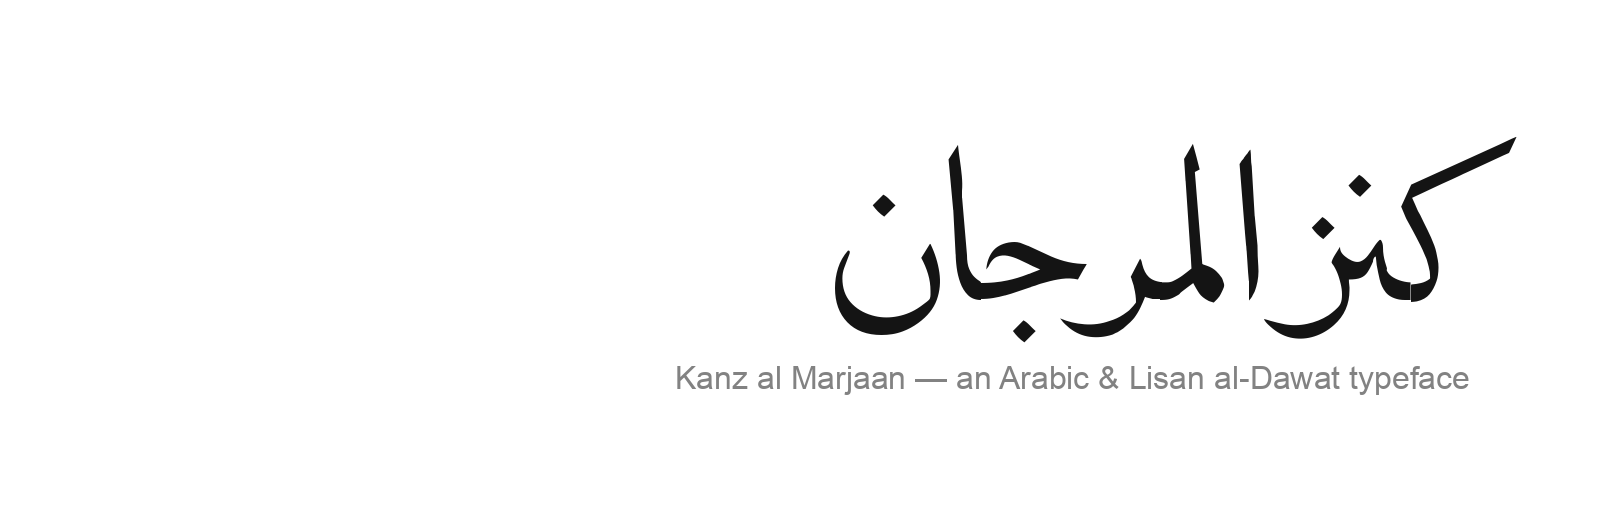
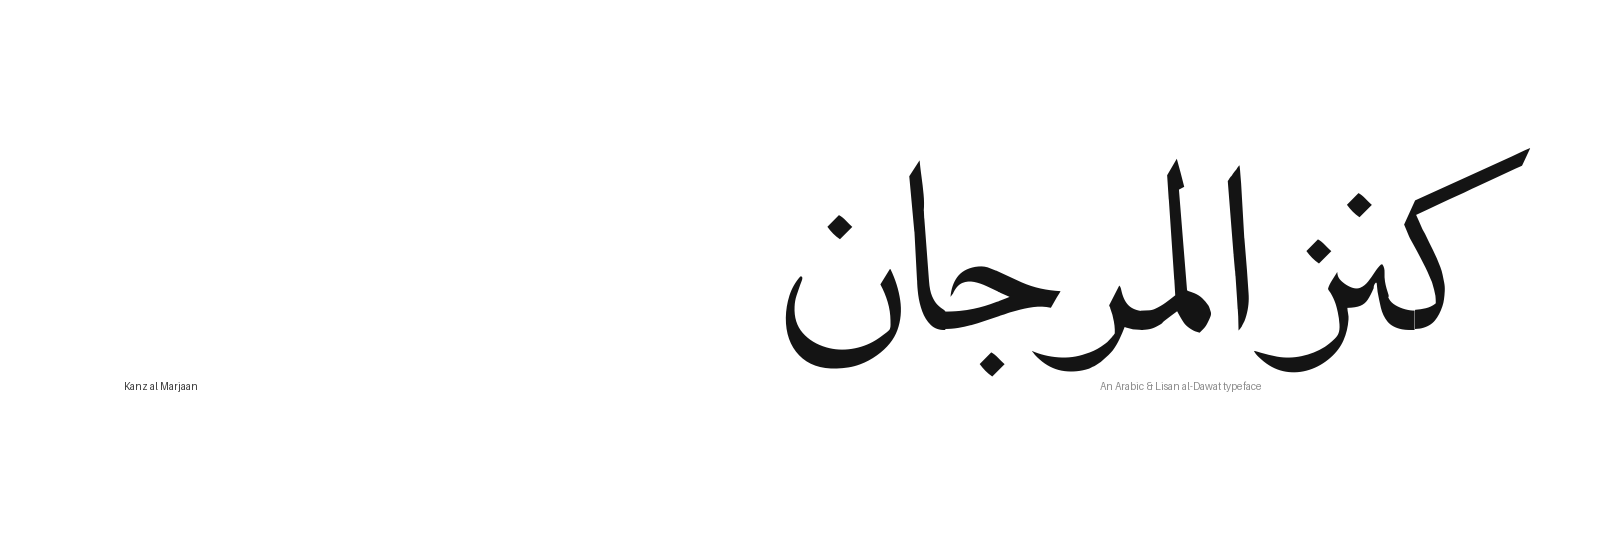
Fix vertical misalignment at glyph entry/exit points (curs anchors)
The auto-generated curs feature had anchor y values that did not sit on
the connecting stroke measured from the outlines, so HarfBuzz shifted
whole glyphs vertically at their joins:

- kaf/keheh/gaf/heh initials (uniFEDB/uniFB90/uniFB94/uniFEEB) carried
  exit anchors at y=109 vs a real stroke centre of ~86, dropping them
  ~21u below the next letter (the step visible between the initial kaf
  and the noon-zain ligature in the font name itself)
- tatweel's exit at y=150 vs 84 broke the baseline of every kashida run
- dotless-qaf finals' entry sat 11u high
- junk exit anchors on 18 non-left-joining glyphs (reh/zain/bari-yeh
  families and friends) and junk entries on hamza + punctuation fired
  spurious cursive attachments, e.g. displacing word-initial zheh by
  350u in sequences like ژو

Verified by shaping a 10k-string corpus and rasterizing every joining
seam: same-direction ink-edge steps > 8u went from 203 seam pairs to 1
(a tatweel + dotless-qaf corner case limited by stroke thickness), and
all large spurious attachments are gone, with the intentional cascade
joins (jeem/ain heads, bari-yeh, meem-alef) unchanged.

New tools: scripts/curs_audit.py (anchor-vs-outline stub audit with
guarded --apply) and scripts/join_scan.py (shaped-corpus raster seam
scanner used as the regression gate). README sample images regenerated
from the fixed build.

Claude-Session: https://claude.ai/code/session_01JieSsAqA5jTYRa2y63BRzp

Changed region(s): [[0.4688, 0.2462, 0.9688, 0.6769], [0.4062, 0.6769, 0.9375, 0.7692], [0.0625, 0.6769, 0.125, 0.7077]]

diff --git a/scripts/join_scan.py b/scripts/join_scan.py
@@ -1,0 +1,222 @@
+#!/usr/bin/env python3
+"""Scan REAL shaped text for entry/exit misalignment at cursive joins.
+
+Shapes a corpus of letter pairs and triples with HarfBuzz against the built
+TTF, rasterizes each joining seam (both glyphs, with the actual cursive-
+attachment offsets applied), and looks for a *staircase*: an abrupt jump of
+BOTH the top and the bottom ink edge in the same direction right at the seam
+column (e.g. the initial kaf sitting ~21u below the noon-zain ligature in
+كنز). Because overlapping strokes merge in the raster exactly as the reader
+sees them, intentional cascade joins (bari-yeh tails sweeping under, top
+entries into jeem/ain heads) measure clean.
+
+Also reports SPURIOUS attachments: cursive rules firing across a pair that
+does not join per the shaper (junk anchors), displacing a glyph vertically.
+
+Results are aggregated per (right-glyph, left-glyph) pair with an example
+string, worst first. Run before/after an anchor fix to prove improvement.
+
+  python scripts/join_scan.py [--ttf PATH] [--tol 8] [--out out/join/scan.txt]
+"""
+import sys, os, argparse, unicodedata
+import numpy as np
+import uharfbuzz as hb
+import freetype
+from fontTools.ttLib import TTFont
+
+TTF = "fonts/ttf/KanzAlMarjaan-Regular.ttf"
+UFO = "sources/KanzAlMarjaan-Regular.ufo"
+PPEM = 512                 # raster resolution (2 font units / px at upm 1024)
+WIN = 5                    # columns to inspect either side of the seam
+CANVAS_TOP = 1000          # font units covered above/below baseline
+CANVAS_BOT = -800
+
+# liga-forming tails: c2+c3 suffixes that produce medial/final ligature glyphs
+TAILS = ["ے", "ی", "ي", "ى", "ھے", "ہے", "ھی", "ھا", "ما", "مد", "جے", "حے", "چے",
+         "ئے", "ئی", "بے", "تے", "نے", "یے", "ھ", "ہ", "م", "ن", "ر", "ز", "د", "ج", "ح", "ع"]
+
+
+def cmap_letters(tt):
+    out = []
+    for cp in tt.getBestCmap():
+        ch = chr(cp)
+        if not (0x0600 <= cp <= 0x077F or 0x08A0 <= cp <= 0x08FF):
+            continue
+        cat = unicodedata.category(ch)
+        if cat == "Lo" or cp == 0x0640:
+            out.append(ch)
+    return sorted(out)
+
+
+def runs_of(col):
+    """Ink runs (top_px, bot_px) in a boolean column, top of image = 0."""
+    idx = np.where(col)[0]
+    if not len(idx):
+        return []
+    out = []
+    start = prev = idx[0]
+    for i in idx[1:]:
+        if i > prev + 1:
+            out.append((start, prev))
+            start = i
+        prev = i
+    out.append((start, prev))
+    return out
+
+
+def seam_staircase(img, seam_px, sc):
+    """Largest same-direction jump (font units) of both edges of a matched
+    ink run between adjacent columns around the seam. img: bool [H, W]."""
+    H, W = img.shape
+    worst = 0.0
+    for c in range(max(0, seam_px - WIN), min(W - 1, seam_px + WIN)):
+        a, b = runs_of(img[:, c]), runs_of(img[:, c + 1])
+        for ra in a:
+            for rb in b:
+                if ra[0] > rb[1] or rb[0] > ra[1]:
+                    continue                      # no vertical overlap
+                dtop = (rb[0] - ra[0]) / sc       # px -> font units
+                dbot = (rb[1] - ra[1]) / sc
+                if dtop * dbot > 0:
+                    s = min(abs(dtop), abs(dbot)) * (1 if dtop > 0 else -1)
+                    if abs(s) > abs(worst):
+                        worst = s
+    return worst
+
+
+def main():
+    ap = argparse.ArgumentParser()
+    ap.add_argument("--ttf", default=TTF)
+    ap.add_argument("--ufo", default=UFO)
+    ap.add_argument("--tol", type=float, default=8.0)
+    ap.add_argument("--out", default="out/join/scan.txt")
+    args = ap.parse_args()
+    os.makedirs(os.path.dirname(args.out), exist_ok=True)
+
+    tt = TTFont(args.ttf)
+    names = tt.getGlyphOrder()
+    with open(args.ttf, "rb") as fh:
+        hbfont = hb.Font(hb.Face(fh.read()))
+    face = freetype.Face(args.ttf)
+    upm = face.units_per_EM
+    face.set_pixel_sizes(0, PPEM)
+    sc = PPEM / upm
+
+    bcache = {}
+
+    def bitmap(gid):
+        """(bool array, bitmap_left, bitmap_top) at PPEM, unhinted."""
+        if gid not in bcache:
+            face.load_glyph(gid, freetype.FT_LOAD_RENDER | freetype.FT_LOAD_NO_HINTING)
+            g = face.glyph
+            bm = g.bitmap
+            a = (np.frombuffer(bytes(bm.buffer), "uint8")
+                 .reshape(bm.rows, bm.width) > 128) if bm.width and bm.rows else np.zeros((0, 0), bool)
+            bcache[gid] = (a, g.bitmap_left, g.bitmap_top)
+        return bcache[gid]
+
+    def shape(text):
+        buf = hb.Buffer()
+        buf.add_str(text)
+        buf.guess_segment_properties()
+        hb.shape(hbfont, buf)
+        return buf
+
+    joins_cache = {}
+
+    def joins_left(span):
+        """Does this character span connect to a following letter? True iff
+        its last glyph changes when a tatweel is appended (data-driven; no
+        Unicode joining tables needed). Tatweel itself always joins."""
+        if span not in joins_cache:
+            if span.endswith("ـ"):
+                joins_cache[span] = True
+            else:
+                a = shape(span).glyph_infos
+                b = shape(span + "ـ").glyph_infos
+                # visual order: the span's last (leftmost) glyph is a[0]
+                joins_cache[span] = len(b) < len(a) + 1 or a[0].codepoint != b[1].codepoint
+        return joins_cache[span]
+
+    letters = cmap_letters(tt)
+    corpus = [a + b for a in letters for b in letters]
+    corpus += [a + t for a in letters for t in TAILS]
+    common = [c for c in "بتنیکلمسعحجدرزوقفطصغخشضظثہھءةگپچڈڑژٹ" if c in letters]
+    corpus += [a + "ـ" + b for a in common for b in common]
+    corpus += ["ب" + a + "ب" for a in letters]              # a in MEDIAL form
+    corpus += ["ب" + a + t for a in letters for t in TAILS]  # medial exit into ligature
+    corpus += [a + b + "ب" for a in common for b in common]  # init-liga exits, medial chains
+    print(f"letters: {len(letters)}   corpus strings: {len(corpus)}")
+
+    PAD = 600                      # font units of slack either side of the pen run
+    H = int((CANVAS_TOP - CANVAS_BOT) * sc)
+
+    agg = {}         # (rname, lname) -> (staircase, example)  real joins only
+    spurious = {}    # (rname, lname) -> (dy, example)  attachment on non-joining pair
+    for text in corpus:
+        buf = shape(text)
+        infos, poss = buf.glyph_infos, buf.glyph_positions
+        pen = 0
+        placed = []      # (gid, name, origin, cluster, seam_x_right_edge)
+        for info, pos in zip(infos, poss):
+            nm = names[info.codepoint]
+            placed.append((info.codepoint, nm, (pen + pos.x_offset, pos.y_offset),
+                           info.cluster, pen + pos.x_advance))
+            pen += pos.x_advance
+        seams = []       # (j, seam_x) needing raster measurement
+        for j in range(len(placed) - 1):
+            _, lname, lorig, lcl, seam = placed[j]
+            _, rname, rorig, rcl, _ = placed[j + 1]
+            key = (rname, lname)
+            rspan = text[rcl:lcl]          # chars of the right glyph
+            if not rspan:                  # same cluster: no evaluable seam
+                continue
+            if not joins_left(rspan):
+                dy = rorig[1] - lorig[1]
+                if abs(dy) > 2 and (key not in spurious or abs(dy) > abs(spurious[key][0])):
+                    spurious[key] = (dy, text)
+                continue
+            seams.append((j, seam))
+        if not seams:
+            continue
+        # rasterize the whole string once
+        W = int((pen + 2 * PAD) * sc) + 2
+        img = np.zeros((H, W), bool)
+        for gid, nm, (gx, gy), _, _ in placed:
+            a, bl, bt = bitmap(gid)
+            if not a.size:
+                continue
+            x0 = int(round((gx + PAD) * sc)) + bl
+            y0 = int(round((CANVAS_TOP - gy) * sc)) - bt
+            x1, y1 = x0 + a.shape[1], y0 + a.shape[0]
+            cx0, cy0 = max(0, x0), max(0, y0)
+            cx1, cy1 = min(W, x1), min(H, y1)
+            if cx0 >= cx1 or cy0 >= cy1:
+                continue
+            img[cy0:cy1, cx0:cx1] |= a[cy0 - y0:cy1 - y0, cx0 - x0:cx1 - x0]
+        for j, seam in seams:
+            _, lname, _, _, _ = placed[j]
+            _, rname, _, _, _ = placed[j + 1]
+            key = (rname, lname)
+            s = seam_staircase(img, int(round((seam + PAD) * sc)), sc)
+            if key not in agg or abs(s) > abs(agg[key][0]):
+                agg[key] = (s, text)
+
+    bad = [(abs(s), s, rn, ln, ex) for (rn, ln), (s, ex) in agg.items() if abs(s) > args.tol]
+    bad.sort(reverse=True)
+    spur = sorted(((abs(d), d, rn, ln, ex) for (rn, ln), (d, ex) in spurious.items()), reverse=True)
+    with open(args.out, "w") as fh:
+        fh.write(f"joining seam pairs measured: {len(agg)}   staircase > {args.tol}u: {len(bad)}\n")
+        fh.write(f"{'right glyph (exit)':38s} {'left glyph (entry)':38s} {'step':>7s}  example\n")
+        for _, s, rn, ln, ex in bad:
+            fh.write(f"{rn:38s} {ln:38s} {s:+7.1f}  {ex}\n")
+        fh.write(f"\nSPURIOUS attachments on non-joining pairs: {len(spur)}\n")
+        for _, d, rn, ln, ex in spur:
+            fh.write(f"{rn:38s} {ln:38s} {d:+7d}  {ex}\n")
+    print(f"joining seam pairs measured: {len(agg)}   staircase > {args.tol}u: {len(bad)}")
+    print(f"spurious attachments on non-joining pairs: {len(spur)}")
+    print(f"-> {args.out}")
+
+
+if __name__ == "__main__":
+    main()

diff --git a/scripts/curs_audit.py b/scripts/curs_audit.py
@@ -1,0 +1,139 @@
+#!/usr/bin/env python3
+"""Audit (and fix) `curs` feature anchors against the actual outline geometry.
+
+HarfBuzz aligns each glyph's EXIT anchor (left side, x~0) with the next
+glyph's ENTRY anchor (right side, x~advance). If an anchor's y does not sit
+at the vertical centre of the connecting stroke measured from the outlines,
+the whole glyph gets shifted vertically at that join -- a step at the seam
+even when the outlines themselves would have lined up perfectly (this is
+what made the initial kaf sit 21u below the noon-zain ligature in كنز).
+
+For every `pos cursive` rule this script measures the outline seam (a
+vertical cross-section just inside the join line, within the baseline band)
+and reports rules whose anchor y deviates from the stroke centre.
+
+With --apply it rewrites the anchor y to the measured stroke centre, but
+ONLY where the seam is unambiguously a canonical baseline connecting stub
+(bottom within [-50, 60], thickness within [120, 235]). Intentional
+non-baseline joins (jeem/ain-class top entries, bari-yeh cascades) and junk
+rules on non-joining glyphs never measure as such a stub and are left alone.
+
+  python scripts/curs_audit.py [--src UFO] [--tol 3] [--apply]
+"""
+import sys, os, re, argparse
+from defcon import Font
+
+sys.path.insert(0, os.path.dirname(os.path.abspath(__file__)))
+from join_diag import flat, _cross_pair
+
+SRC = "sources/KanzAlMarjaan-Regular.ufo"
+FEA = os.path.join(SRC, "features.fea")
+YWIN = (-60, 470)   # baseline band where cursive connections live
+INSET = 6           # measure this far inside the join line
+
+RULE_RE = re.compile(
+    r"pos cursive (\S+) "
+    r"<anchor (?:(-?\d+) (-?\d+)|NULL)> "
+    r"<anchor (?:(-?\d+) (-?\d+)|NULL)>;")
+
+
+def parse_rules(fea_path):
+    """-> list of (glyphname, entry(x,y)|None, exit(x,y)|None)"""
+    rules = []
+    for line in open(fea_path):
+        m = RULE_RE.search(line)
+        if m:
+            n, ex_, ey, xx, xy = m.group(1), m.group(2), m.group(3), m.group(4), m.group(5)
+            entry = (int(ex_), int(ey)) if ex_ is not None else None
+            exit_ = (int(xx), int(xy)) if xx is not None else None
+            rules.append((n, entry, exit_))
+    return rules
+
+
+def seam(font, name, side):
+    """Outline cross-section at the join line. -> (bottom, top) or None."""
+    g = font[name]
+    polys = flat(font, g)
+    if not polys:
+        return None
+    x = INSET if side == "exit" else g.width - INSET
+    return _cross_pair(polys, x, YWIN)
+
+
+def is_stub(bot, top):
+    """A canonical baseline connecting stub: sits on the baseline with the
+    standard connecting-stroke thickness."""
+    return -50 <= bot <= 60 and 120 <= top - bot <= 235
+
+
+def main():
+    ap = argparse.ArgumentParser()
+    ap.add_argument("--src", default=SRC)
+    ap.add_argument("--tol", type=float, default=3.0)
+    ap.add_argument("--apply", action="store_true",
+                    help="rewrite anchor y to the stroke centre for stub seams")
+    args = ap.parse_args()
+    fea_path = os.path.join(args.src, "features.fea")
+    font = Font(args.src)
+    rules = parse_rules(fea_path)
+    print(f"curs rules: {len(rules)}")
+
+    bad, dead = [], []
+    for name, entry, exit_ in rules:
+        if name not in font:
+            continue
+        for side, a in (("entry", entry), ("exit", exit_)):
+            if a is None:
+                continue
+            s = seam(font, name, side)
+            if s is None:
+                dead.append((name, side, a))
+                continue
+            bot, top = s
+            center = (bot + top) / 2
+            dy = a[1] - center
+            if abs(dy) > args.tol:
+                bad.append((abs(dy), name, side, a[1], center, top - bot,
+                            is_stub(bot, top)))
+
+    bad.sort(reverse=True)
+    print(f"\nanchor y != outline stroke centre (|dy| > {args.tol}u): {len(bad)}")
+    print(f"{'glyph':34s} {'side':5s} {'anchor_y':>8s} {'centre':>7s} {'thick':>6s} {'dy':>6s}  fix?")
+    for dy, name, side, ay, c, th, stub in bad:
+        print(f"{name:34s} {side:5s} {ay:8d} {c:7.1f} {th:6.1f} {ay - c:+6.1f}  {'STUB-FIX' if stub else 'keep'}")
+
+    print(f"\nrules with NO outline seam at the join line (likely junk / non-joining): {len(dead)}")
+    for name, side, a in dead[:60]:
+        print(f"  {name:34s} {side:5s} anchor={a}")
+    if len(dead) > 60:
+        print(f"  ... and {len(dead) - 60} more")
+
+    if not args.apply:
+        return
+    fix = {}
+    for dy, name, side, ay, c, th, stub in bad:
+        if stub:
+            fix.setdefault(name, {})[side] = round(c)
+    rules_by_name = {n: (e, x) for n, e, x in rules}
+    out, n_edit = [], 0
+    for line in open(fea_path):
+        m = RULE_RE.search(line)
+        if m and m.group(1) in fix:
+            name = m.group(1)
+            entry, exit_ = rules_by_name[name]
+            want = fix[name]
+            if "entry" in want:
+                entry = (entry[0], want["entry"])
+            if "exit" in want:
+                exit_ = (exit_[0], want["exit"])
+            en = "<anchor %d %d>" % entry if entry else "<anchor NULL>"
+            ex = "<anchor %d %d>" % exit_ if exit_ else "<anchor NULL>"
+            line = "  pos cursive %s %s %s;\n" % (name, en, ex)
+            n_edit += 1
+        out.append(line)
+    open(fea_path, "w").writelines(out)
+    print(f"\nAPPLIED: rewrote {n_edit} cursive rules ({sum(len(v) for v in fix.values())} anchors) in {fea_path}")
+
+
+if __name__ == "__main__":
+    main()